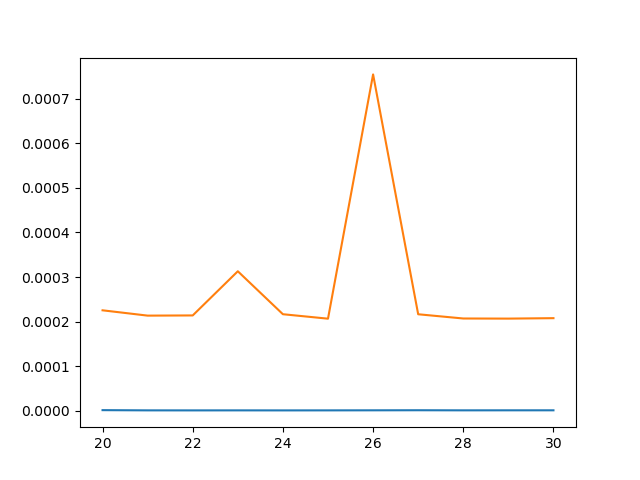
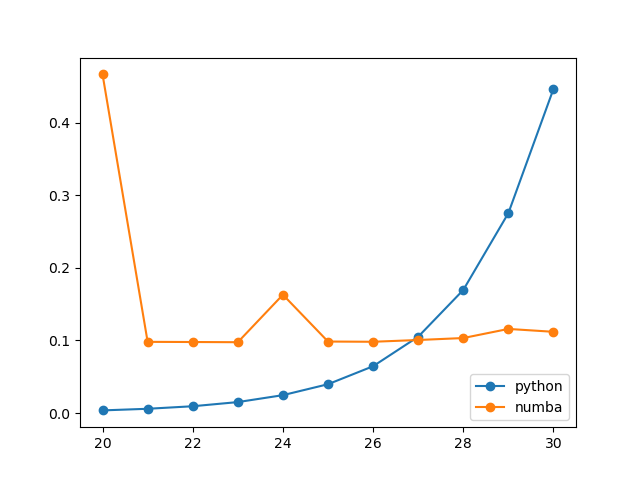
added more files

diff --git a/MA4/person.py b/MA4/person.py
@@ -12,34 +12,49 @@ class Person(object):
         lib.Person_get.restype = ctypes.c_int
         lib.Person_set.argtypes = [ctypes.c_void_p,ctypes.c_int]
         lib.Person_delete.argtypes = [ctypes.c_void_p]
+        lib.Person_fib.argtypes = [ctypes.c_void_p]
+        lib.Person_fib.restype = ctypes.c_int
         self.obj = lib.Person_new(age)
     
     
     def get(self):
         return lib.Person_get(self.obj)
 
-    def fib(self):
-        start = pc()
-        def fib_py(n):
+    def fib_py(self):
+
+        def fib(n):
             if n <= 1:
                 return n
             else:
-                return(fib_py(n-1) + fib_py(n-2))
+                return(fib(n-1) + fib(n-2))
+        start = pc()
+        f = fib(self.get())
         end = pc()
         t_py = end - start
         
-        start = pc()
+        return [f, t_py]
+    
+    def fib_numba(self):
         
         @njit
-        def fib_numba(n):
+        def fib(n):
             if n  <= 1:
                 return n
             else:
-                 return(fib_numba(n-1) + fib_numba(n-2))
+                 return(fib(n-1) + fib(n-2))
+        start = pc()
+        f = fib(self.get())
         end = pc()
         t_numba = end - start
 
-        return [fib_py(self.get()), fib_numba(self.get()), 0, t_py, t_numba]
+        return [f, t_numba]
+    
+    def fib_cpp(self):
+        start = pc()
+        f = lib.Person_fib(self.obj)
+        end = pc()
+        t_cpp = end - start
+        return [f, t_cpp]
 
     def set(self, age):
         lib.Person_set(self.obj, age)

diff --git a/MA4/MA4_2.py b/MA4/MA4_2.py
@@ -5,19 +5,40 @@ import matplotlib.pyplot as plt
 import numpy as np
 def main():
     f = Person(7)
-   # print(f.get())
-   # print(f.fib())
+    #print(f.fib_cpp())
+    
+    #fib1 = np.arange(30,46)
+    #t1_py = []
+    #t1_numba = []
+    #t1_cpp = []
+    
+    #for i in fib1:
+    #    f.set(i)
+    #    t1_py += [f.fib_py()[1]]
+    #    t1_numba += [f.fib_numba()[1]]
+    #    t1_cpp += [f.fib_cpp()[1]]
+    #    print(i)
+    #plt.plot(fib1, t1_py, 'o-')
+    #plt.plot(fib1, t1_numba, 'o-')
+    #plt.plot(fib1, t1_cpp, 'o-')
+    #plt.legend(labels = ['python', 'numba', 'c++'])
+    #plt.savefig('fib1')
 
     t2_py = []
     t2_numba = []
     fib2 = np.arange(20,31)
+
     for i in fib2:
         f.set(i)
-        t2_py += [f.fib()[3]]
-        t2_numba += [f.fib()[4]]
-    plt.plot(fib2, t2_py)
-    plt.plot(fib2, t2_numba)
+        t2_py += [f.fib_py()[1]]
+        t2_numba += [f.fib_numba()[1]]
+    plt.plot(fib2, t2_py, 'o-')
+    plt.plot(fib2, t2_numba, 'o-')
+    plt.legend(labels = ['python', 'numba'])
     plt.savefig('fib2')
 
+    f.set(47)
+    print(f.fib_numba(), 'fib(47) with numba')
+    print(f.fib_cpp(), 'fib(47) with c++')
 if __name__ == '__main__':
 	main()

diff --git a/MA4/person.cpp b/MA4/person.cpp
@@ -6,8 +6,10 @@ class Person{
 		Person(int);
 		int get();
 		void set(int);
+		int fib();
 	private:
 		int age;
+		int fib_cpp(int);
 	};
  
 Person::Person(int n){
@@ -22,10 +24,23 @@ void Person::set(int n){
 	age = n;
 	}
 
+int Person::fib(){
+	return fib_cpp(age);
+	}
+
+int Person::fib_cpp(int n){
+	if(n <= 1){
+		return n;
+		}
+	else{
+		return(fib_cpp(n-1) + fib_cpp(n-2));
+		}
+	}	
 
 extern "C"{
 	Person* Person_new(int n) {return new Person(n);}
 	int Person_get(Person* person) {return person->get();}
+	int Person_fib(Person* person) {return person->fib();}
 	void Person_set(Person* person, int n) {person->set(n);}
 	void Person_delete(Person* person){
 		if (person){
